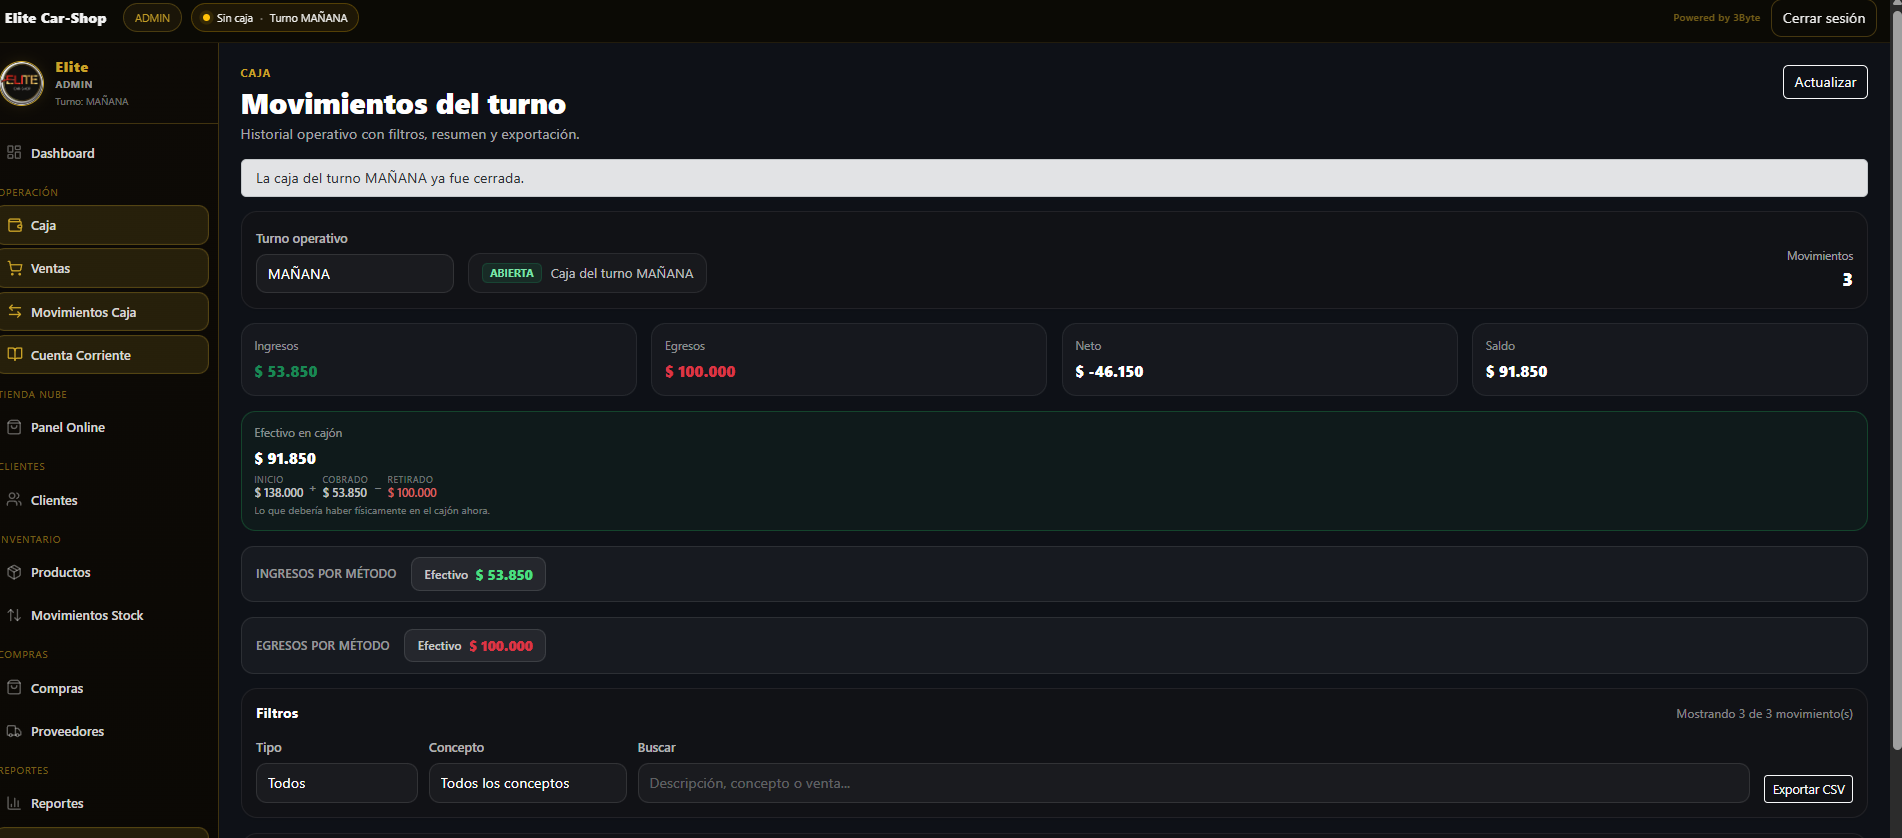
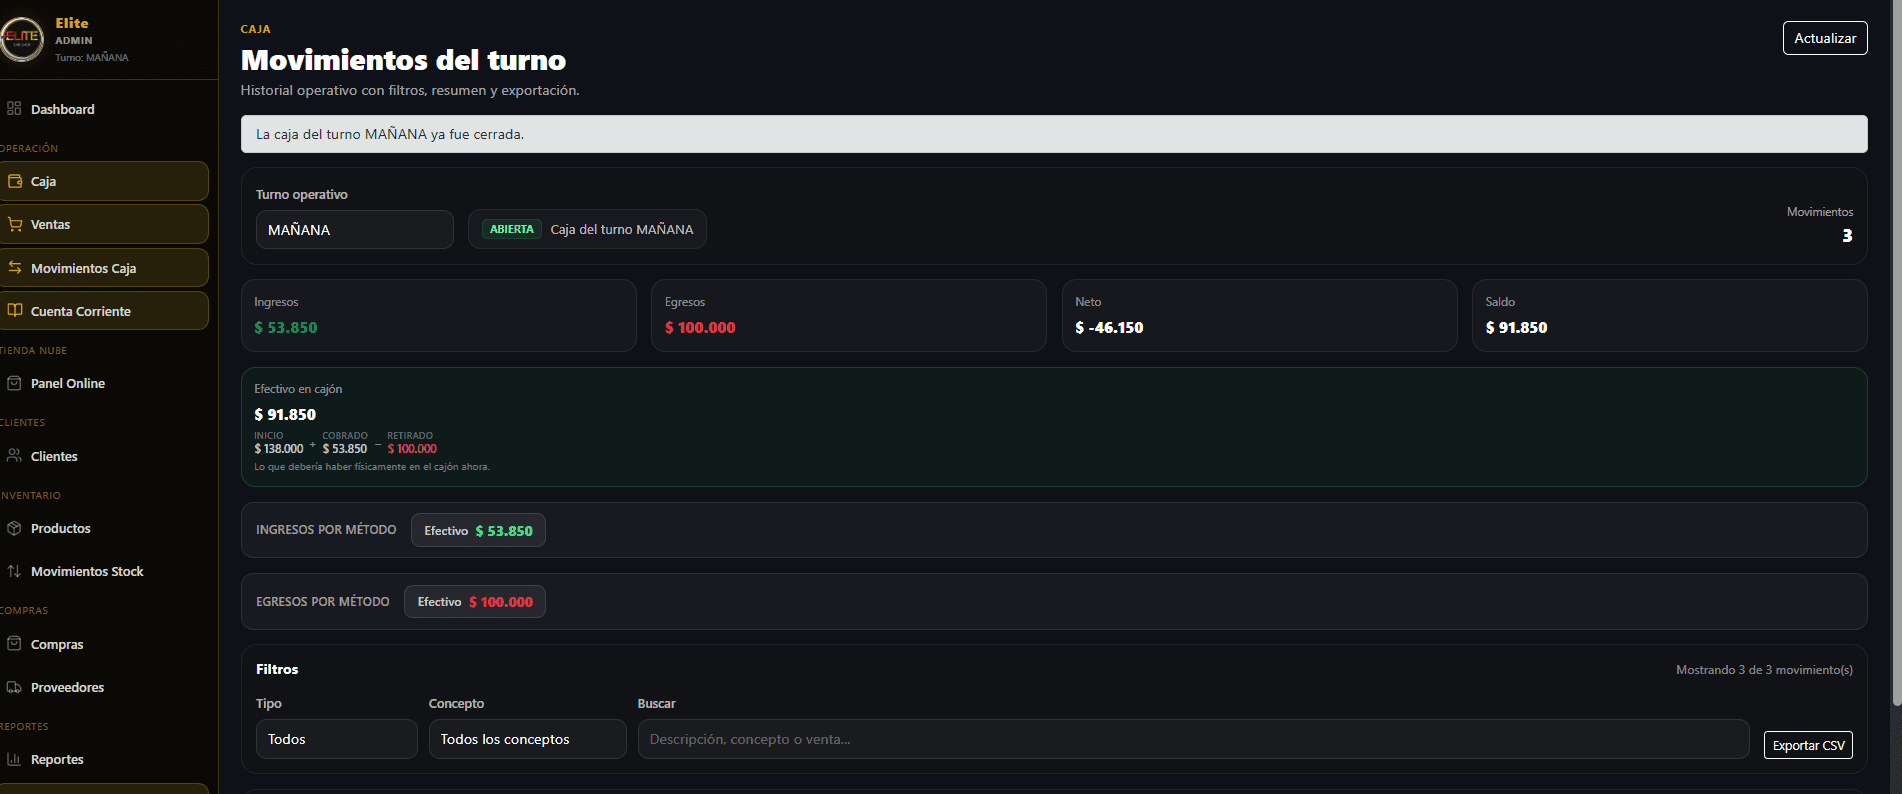
style(projects): reencuadre Elite/Pena + saca las tecnologias
- Elite: recorta la barra superior, arranca en "Movimientos del turno"
  (object-left-top para no cortar el titulo)
- Pena: recorta el vacio inferior, el contenido queda centrado
- Se quitan las pills de tecnologias de las cards

diff --git a/src/components/Projects.tsx b/src/components/Projects.tsx
@@ -10,6 +10,7 @@ const projects = [
     logo: "https://elitecarshopsf.duckdns.org/assets/logoelite-W4eZvBtv.jpg",
     logoH: 36,
     image: "/projects/elite-caja.png",
+    imgPos: "object-left-top",
     domain: "elitecarshopsf.duckdns.org",
     pills: ["Kotlin", "Ktor", "Vue 3", "PostgreSQL", "Tienda Nube API", "Webhooks"],
     badge: { label: "En producción", dot: "bg-[#34d399]", text: "text-[#34d399]" },
@@ -23,6 +24,7 @@ const projects = [
     logo: "https://aerogym.duckdns.org/logoaerogym.jpg",
     logoH: 36,
     image: "/projects/aero-dashboard.png",
+    imgPos: "object-top",
     domain: "aerogym.duckdns.org",
     pills: ["Kotlin", "Ktor", "Vue 3", "PostgreSQL", "JWT"],
     badge: { label: "En producción", dot: "bg-[#34d399]", text: "text-[#34d399]" },
@@ -36,6 +38,7 @@ const projects = [
     logo: "https://pboquensesf.duckdns.org/assets/logo_pe%C3%B1a-BetDt1YW.png",
     logoH: 40,
     image: "/projects/pena-dashboard.png",
+    imgPos: "object-top",
     domain: "pboquensesf.duckdns.org",
     pills: ["Kotlin", "Ktor", "Vue 3", "PostgreSQL", "JWT"],
     badge: { label: "En producción", dot: "bg-[#34d399]", text: "text-[#34d399]" },
@@ -49,6 +52,7 @@ const projects = [
     logo: "https://www.sportbyte.com.ar/logosolosportbyte.png",
     logoH: 38,
     image: "/projects/sportbyte.png",
+    imgPos: "object-top",
     domain: "sportbyte.com.ar",
     pills: ["Next.js", "Vercel", "WhatsApp API", "Multi-admin", "Tiempo real"],
     badge: { label: "SaaS · activo", dot: "bg-[#5b8bff]", text: "text-[#5b8bff]" },
@@ -98,7 +102,7 @@ export default function Projects() {
                           alt={`${p.name} — captura del sistema`}
                           fill
                           sizes="(max-width: 1024px) 100vw, 480px"
-                          className="object-cover object-top group-hover:scale-[1.03] transition-transform duration-700 ease-out"
+                          className={`object-cover ${p.imgPos} group-hover:scale-[1.03] transition-transform duration-700 ease-out`}
                         />
                       </div>
                     </div>
@@ -136,17 +140,6 @@ export default function Projects() {
                   <p className="font-mono text-[0.78rem] text-[#8888a0] leading-[1.85] mb-5">
                     {p.desc}
                   </p>
-
-                  <div className="flex flex-wrap gap-1.5 mb-5">
-                    {p.pills.map((pill) => (
-                      <span
-                        key={pill}
-                        className="font-mono text-[0.58rem] bg-white/[0.03] text-[#8888a0] px-2.5 py-1 rounded-full border border-white/[0.07] tracking-wide"
-                      >
-                        {pill}
-                      </span>
-                    ))}
-                  </div>
 
                   {p.href && (
                     <a